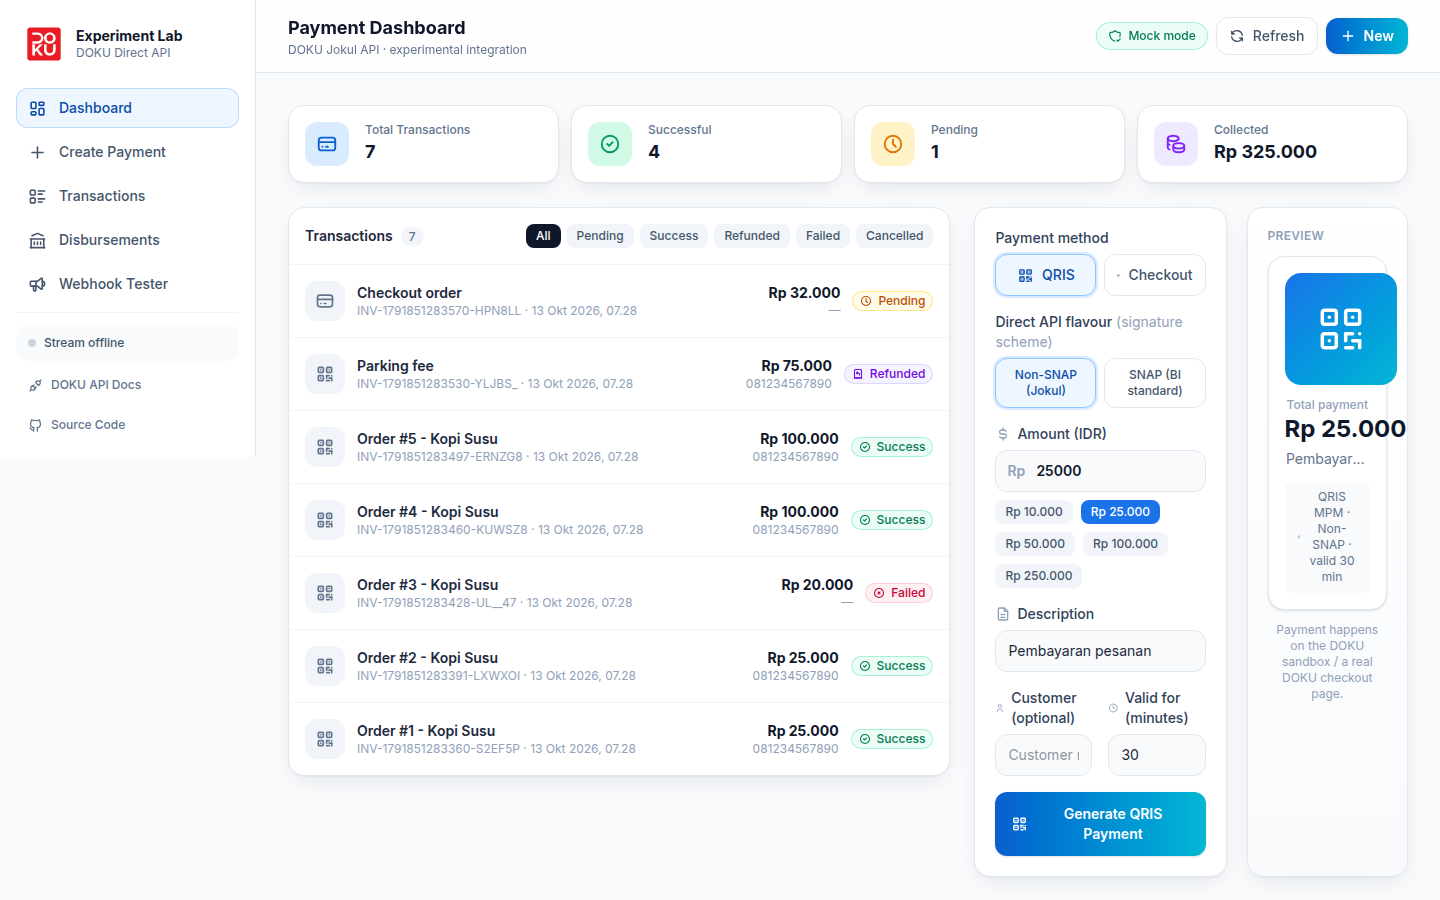
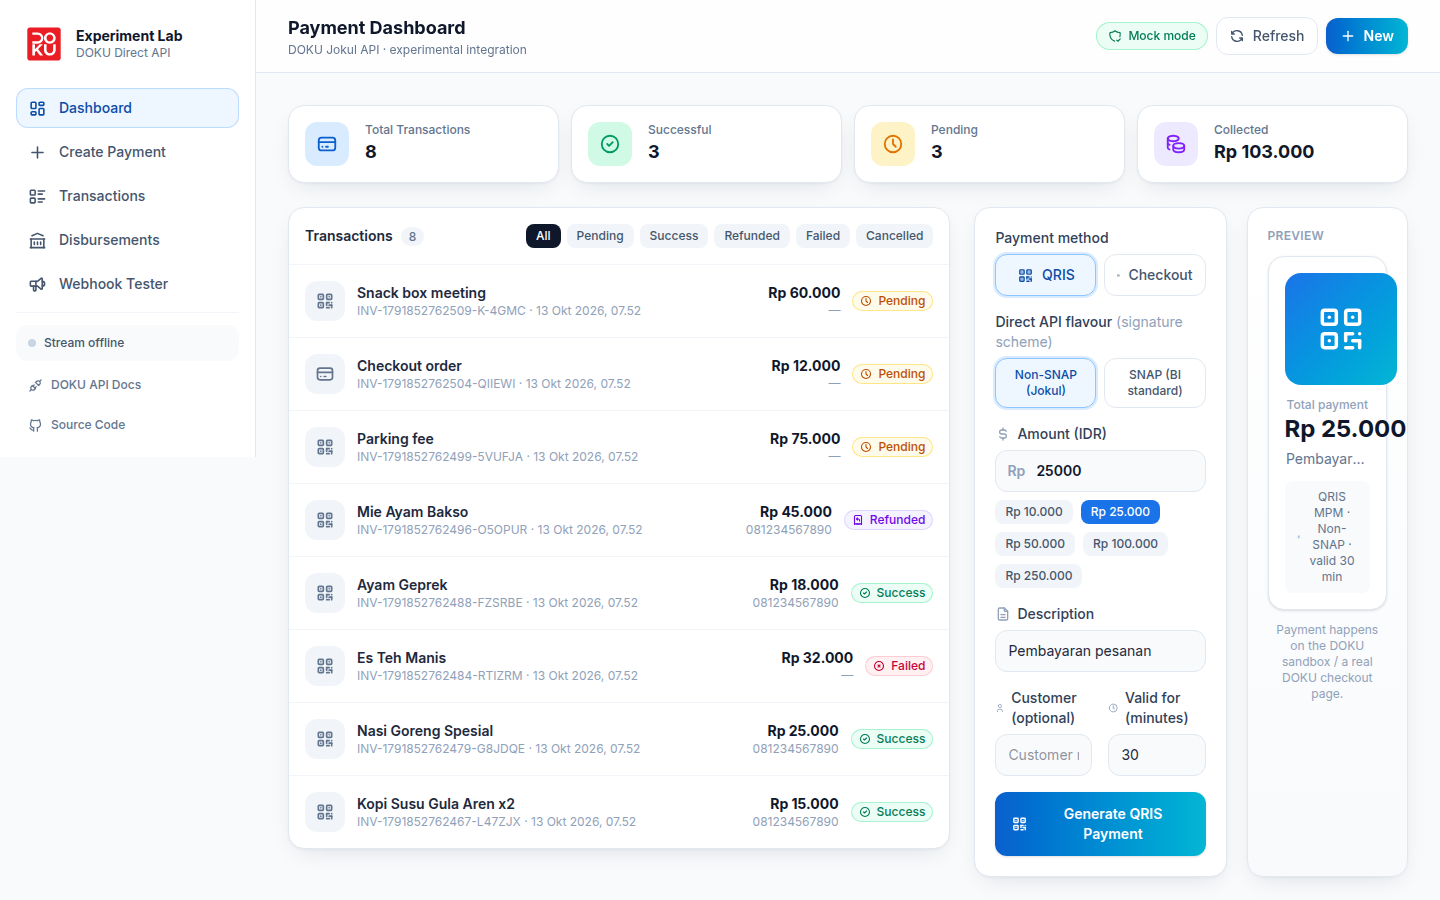
fix(frontend): render QRIS QR in payment detail modal
The QR image was only attached to the POST /api/payments response, never
persisted, so reopening a payment from the list showed a placeholder icon
instead of the QR.

- PaymentDetailModal: fall back to GET /api/payments/:ref/qr.svg when the
  inline qrImage is absent, so the QR always renders
- backend/tools/seed-demo.mjs: dev helper to seed demo transactions
- re-captured real screenshots (dashboard, payment-detail, webhook-tester)
  with the QR now visible

diff --git a/frontend/src/components/PaymentDetailModal.jsx b/frontend/src/components/PaymentDetailModal.jsx
@@ -133,13 +133,16 @@ export default function PaymentDetailModal({ open, onClose, transaction, onUpdat
           {t.qrContent ? (
             <>
               <div className="rounded-2xl border border-slate-200 bg-white p-3 shadow-sm">
-                {t.qrImage ? (
-                  <img src={t.qrImage} alt="QRIS code" className="h-48 w-48" />
-                ) : (
-                  <div className="grid h-48 w-48 place-items-center text-slate-300">
-                    <IconQrcode size={64} stroke={1.2} />
-                  </div>
-                )}
+                {/* Prefer the inline image from the create response; otherwise
+                    fetch the QR SVG from the API so it always renders. */}
+                <img
+                  src={t.qrImage || `/api/payments/${t.invoiceNumber}/qr.svg`}
+                  alt="QRIS code"
+                  className="h-48 w-48"
+                  onError={(e) => {
+                    e.currentTarget.style.display = 'none';
+                  }}
+                />
               </div>
               <div className="mt-3 flex gap-2">
                 <button
